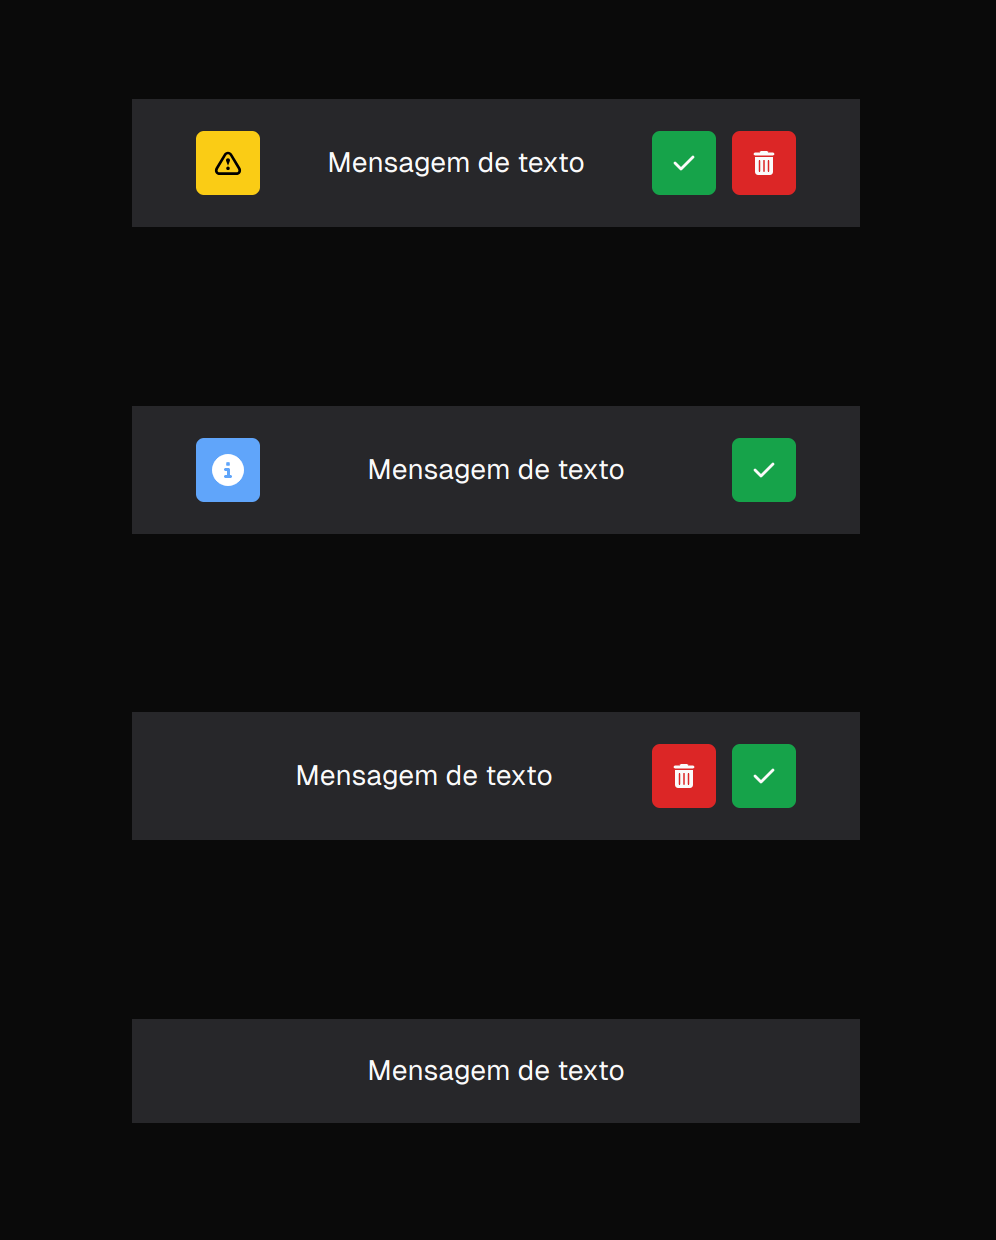
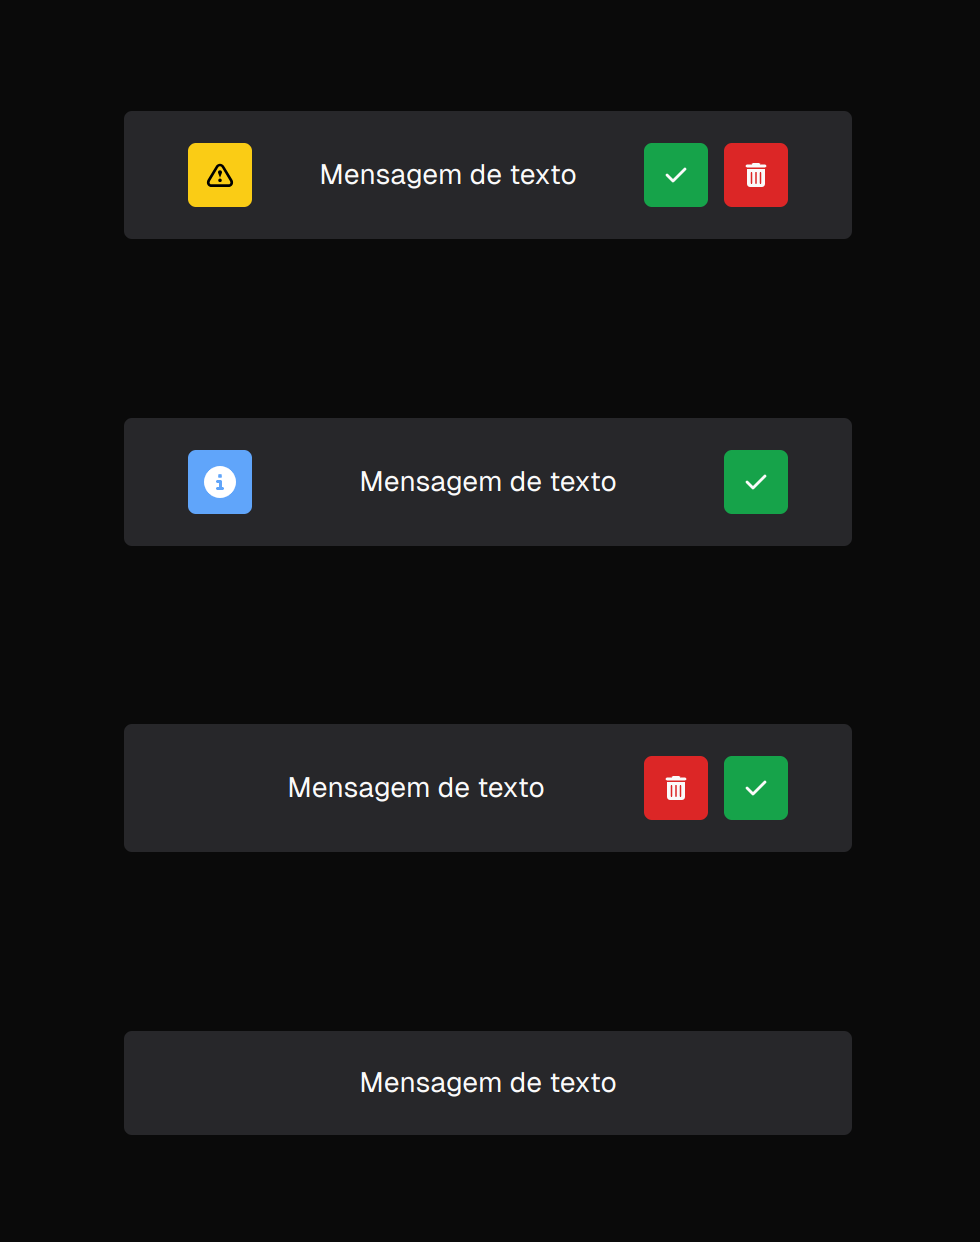
ajuste estilos

diff --git a/composition-components/src/app/components/MessageCuston/MessageRoot.jsx b/composition-components/src/app/components/MessageCuston/MessageRoot.jsx
@@ -1,7 +1,8 @@
 export const MessageRoot = ({ children }) => {
     return (
-        <div className="w-[364px] bg-zinc-200 px-8 py-4 flex justify-center items-center">
+        <div className="w-[364px] bg-zinc-200 rounded dark:bg-zinc-800 px-8 py-4 flex justify-center items-center">
             {children}
         </div>
+      
     )
 }

diff --git a/composition-components/src/app/components/MessageCuston/MessageContent.jsx b/composition-components/src/app/components/MessageCuston/MessageContent.jsx
@@ -1,7 +1,7 @@
 export const MessageContent = ({textMensage}) => {
     return(
         <div className="flex-1 flex justify-center items-center flex-col gap-2">
-            <p className="text-sm text-slate-950 mx-2">
+            <p className="text-sm text-zinc-50 mx-2">
                 {textMensage}
             </p>
         </div>
